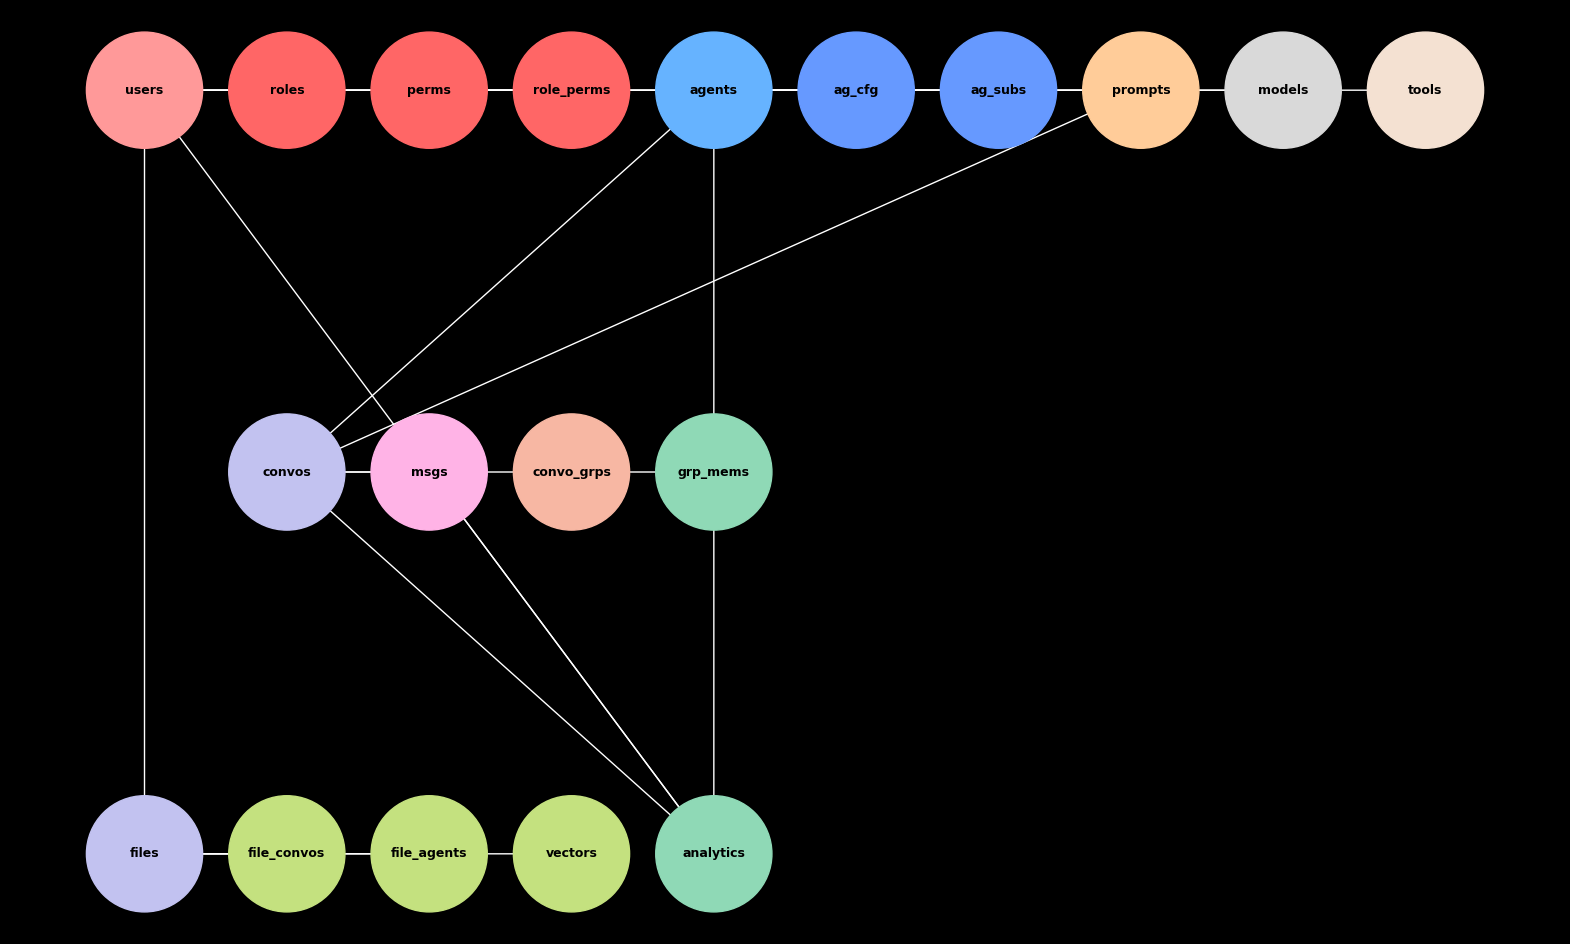
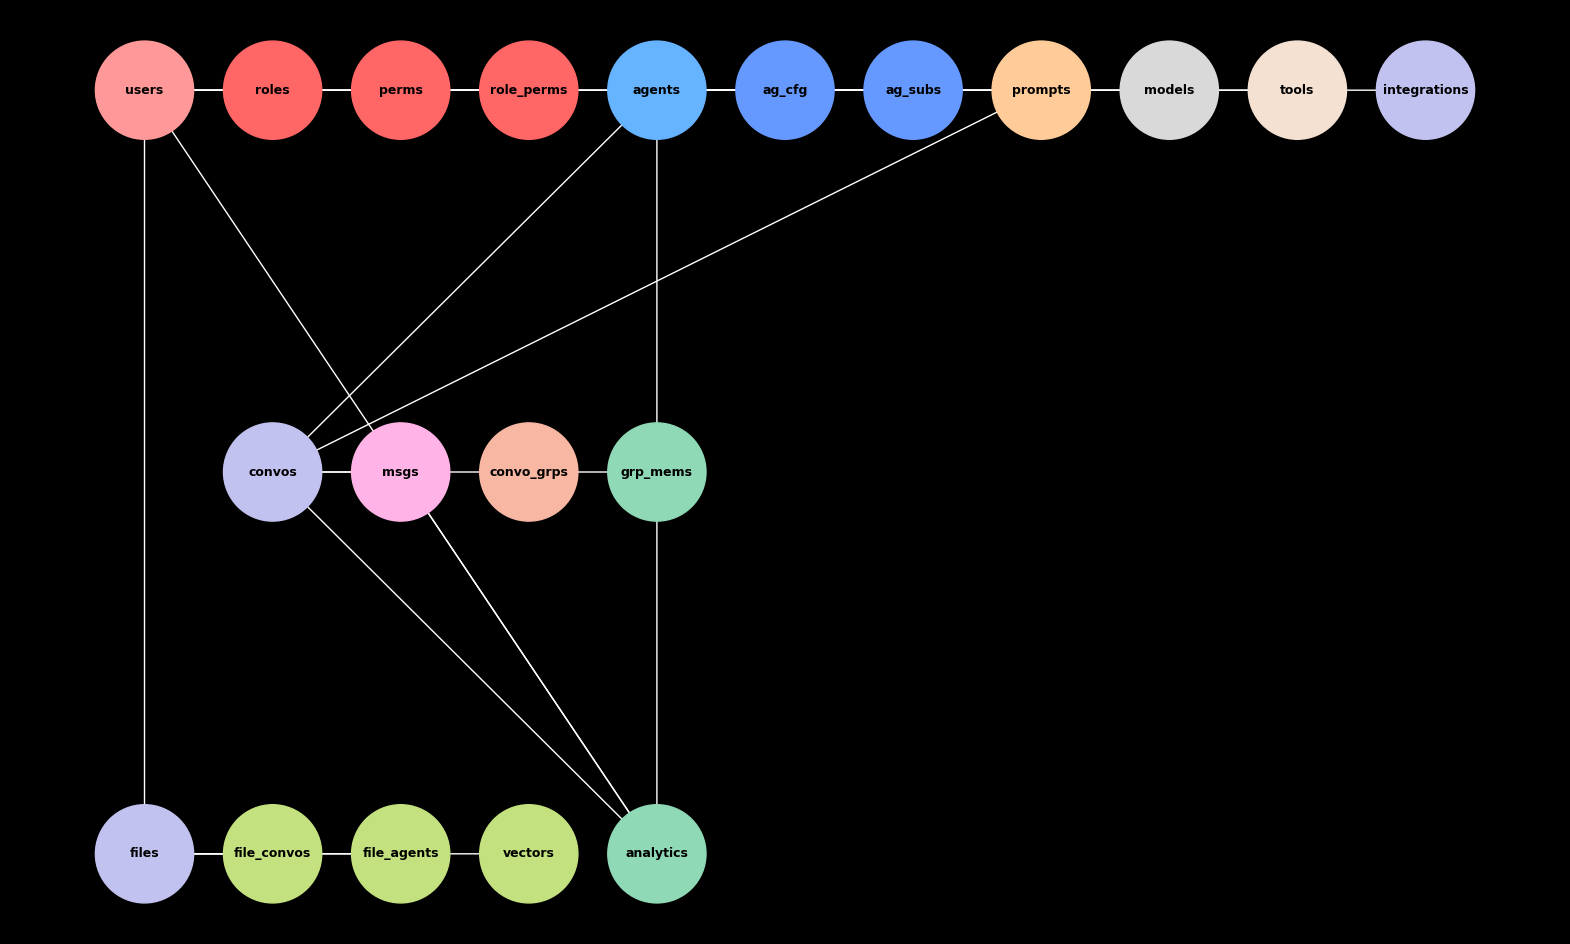
Updated architecture with integrations and tools split

diff --git a/scripts/architecture-endpoints.py b/scripts/architecture-endpoints.py
@@ -10,7 +10,7 @@ def calculate_positions(num_nodes, x_min, x_max, y_pos):
     return positions
 
 # List of node names
-node_names = ["User Mang", "Agent Mang", "Conversation Mang", "File Mang", "RAG Pipeline", "Integrations", "Analytics"]
+node_names = ["User Mang", "Agent Mang", "Conversation Mang", "File Mang", "RAG Pipeline", "Integrations", "Tools", "Analytics"]
 
 # Define colors for different entity groupings
 colors = {
@@ -20,54 +20,52 @@ colors = {
     "File Mang": "#6699ff",
     "RAG Pipeline": "#d9d9d9",
     "Integrations": "#8fd9b6",
+    "Tools": "#ffb3e6",
     "Analytics": "#c2c2f0",
 }
 
-# Define endpoints for each grou[
+# Define endpoints for each group
 endpoints = {
     "User Mang": [
-        "CreateUser", "GetUser", "Login", "Logout", "RefreshToken",
-        "ReqPassReset", "ResetPass", "CreateRole", "GetRole",
-        "CreatePerm", "GetPerm", "RolePerms",
-        "UserRoles", "RemoveUserRole"
+        "CreateUser", "GetUserDetails", "UpdateUser", "DeleteUser", "UserLogin",
+        "UserLogout", "RefreshToken", "PasswordResetReq", "PasswordReset", "CreateRole",
+        "GetRoleDetails", "UpdateRole", "DeleteRole", "CreatePermission", "GetPermissionDetails",
+        "UpdatePermission", "DeletePermission", "AssignPermission", "RemovePermission", "AssignRole",
+        "RemoveRole"
     ],
     "Agent Mang": [
-        "CreateAgent", "GetAgent", "AgentConfig",
-        "AgentModels", "GetModel",
-        "AgentTools", "GetTool",
-        "AgentPrompts", "GetPrompt",
-        "AgentSubs", "GetSub",
-        "AgentPerms", "GetPerm",
-        "AgentFiles", "GetFile"
+        "CreateAgent", "GetAgentDetails", "UpdateAgent", "DeleteAgent", "UpdateAgentConfig",
+        "AddAgentModel", "RemoveAgentModel", "AddAgentTool", "RemoveAgentTool", "AddAgentPrompt",
+        "RemoveAgentPrompt", "SubscribeAgent", "UnsubscribeAgent", "AssignAgentPermission", "RemoveAgentPermission",
+        "LinkAgentFile", "UnlinkAgentFile"
     ],
     "Conversation Mang": [
-        "CreateConv", "GetConv", "ConvMsgs",
-        "GetMsg", "ConvHist",
-        "ConvContext", "ConvGroup",
-        "CreateGroup", "GetGroup"
+        "CreateConversation", "GetConvDetails", "UpdateConvDetails", "DeleteConversation", "SendMessage",
+        "GetMessageDetails", "UpdateMessage", "DeleteMessage", "GetConvHistory", "GetConvContext",
+        "UpdateConvContext", "AddConvToGroup", "RemoveConvFromGroup", "CreateConvGroup", "GetConvGroupDetails",
+        "UpdateConvGroup", "DeleteConvGroup"
     ],
     "File Mang": [
-        "UploadFile", "GetFile", "FileMetadata"
+        "UploadFile", "GetFileDetails", "DeleteFile", "UpdateFileMetadata"
     ],
     "RAG Pipeline": [
-        "IngestFile", "FileVector",
-        "UpdateVector", "FileEmbed",
-        "UpdateEmbed", "SearchFiles"
+        "IngestFileContent", "GetFileVector", "UpdateFileVector", "GetFileEmbedding", "UpdateFileEmbedding", "SearchFilesWithRAG"
     ],
     "Integrations": [
-        "RegisterTool", "GetTool", "AgentTools",
-        "GetAgentTool", "ExecTool"
+        "RegisterIntegration", "GetIntegrationDetails", "UpdateIntegration", "DeleteIntegration", "ListIntegrations"
+    ],
+    "Tools": [
+        "RegisterTool", "GetToolDetails", "UpdateTool", "DeleteTool", "ListTools",
+        "AddToolToAgent", "RemoveToolFromAgent", "ExecuteTool"
     ],
     "Analytics": [
-        "CaptureEvent", "GetEvent", "EventSummary",
-        "AgentAnalytics", "UserAnalytics",
-        "ConvAnalytics", "EventTypes",
-        "GetEventType"
+        "CaptureAnalyticsEvent", "GetAnalyticsEvent", "GetAnalyticsSummary", "GetAgentAnalytics", "GetUserAnalytics",
+        "GetConversationAnalytics", "GetEventTypes", "GetEventTypeDetails"
     ],
 }
 
 # Create a figure and axis
-fig, ax = plt.subplots(figsize=(20, 8))
+fig, ax = plt.subplots(figsize=(20, 12))
 fig.patch.set_facecolor('black')
 ax.set_facecolor('black')
 
@@ -76,13 +74,13 @@ ax.axis('off')
 
 # Set limits to add padding
 ax.set_xlim(-22.5, 22.5)
-ax.set_ylim(-6.5, 6.5)
+ax.set_ylim(-7.5, 7.5)
 
 # Define the graph
 G = nx.DiGraph()
 
 # Calculate positions for the nodes
-positions = calculate_positions(len(node_names), -19, 19, 4)
+positions = calculate_positions(len(node_names), -19, 19, 6)
 
 # Assign correct node names to positions
 positions = {node_names[i]: pos for i, pos in enumerate(positions.values())}
@@ -93,15 +91,13 @@ for node, pos in positions.items():
 
 # Draw nodes
 pos = nx.get_node_attributes(G, 'pos')
-nx.draw_networkx_nodes(G, pos, node_size=10000, node_color=[colors[node.split('_')[0]] if '_' in node else colors[node] for node in G.nodes()], ax=ax)
+nx.draw_networkx_nodes(G, pos, node_size=10000, node_color=[colors[node] for node in G.nodes()], ax=ax)
 
 # Draw labels within the circles
 for node, (x, y) in pos.items():
-    label = node.split('_')[0] if '_' in node else node
-    ax.text(x, y, label, color='black', ha='center', va='center', fontsize=8, fontweight='bold')
+    ax.text(x, y, node, color='black', ha='center', va='center', fontsize=8, fontweight='bold')
 
 # Draw group nodes (rectangles) underneath each main node
-rect_height = 1.0
 rect_y_offset = 2.9
 line_offset = 2.1
 for node, (x, y) in pos.items():
@@ -126,3 +122,4 @@ for node, (x, y) in pos.items():
 plt.savefig('./static/img/docs/architecture_endpoints_diagram.png', bbox_inches='tight', facecolor=fig.get_facecolor())
 
 plt.show()
+

diff --git a/scripts/architecture-schema.py b/scripts/architecture-schema.py
@@ -22,6 +22,7 @@ colors = {
     "prompts": "#ffcc99",
     "models": "#d9d9d9",
     "tools": "#f4e1d2",
+    "integrations": "#c2c2f0",
     "convos": "#c2c2f0",
     "msgs": "#ffb3e6",
     "convo_grps": "#f7b7a3",
@@ -45,6 +46,7 @@ positions = {
     "prompts": (14, 2),
     "models": (16, 2),
     "tools": (18, 2),
+    "integrations": (20, 2),
     "convos": (2, 1),
     "msgs": (4, 1),
     "convo_grps": (6, 1),
@@ -72,6 +74,7 @@ relationships = [
     ("prompts", "convos"),
     ("models", "agents"),
     ("tools", "agents"),
+    ("integrations", "agents"),
     ("convos", "msgs"),
     ("agents", "convos"),
     ("convos", "convo_grps"),
@@ -91,7 +94,7 @@ for source, target in relationships:
 
 # Draw nodes
 pos = nx.get_node_attributes(G, 'pos')
-nx.draw_networkx_nodes(G, pos, node_size=7000, node_color=[colors[node] for node in G.nodes()], ax=ax)
+nx.draw_networkx_nodes(G, pos, node_size=5000, node_color=[colors[node] for node in G.nodes()], ax=ax)
 
 # Draw labels within the circles
 for node, (x, y) in pos.items():

diff --git a/scripts/architecture-core-components.py b/scripts/architecture-core-components.py
@@ -18,6 +18,7 @@ colors = {
     "File Mang": "#d9d9d9",
     "RAG Pipeline": "#8fd9b6",
     "Integrations": "#c2c2f0",
+    "Tools": "#ffb3e6",
     "Analytics": "#ffcc99",
 }
 
@@ -28,9 +29,10 @@ positions = {
     "Agent Mang": (14, 8),
     "Conversation Mang": (8, 6),
     "RAG Pipeline": (10, 4),
-    "Integrations": (12, 2),
+    "Integrations": (8, 4),
+    "Tools": (12, 4),
     "File Mang": (12, 6),
-    "Analytics": (8, 2),
+    "Analytics": (10, 2),
 }
 
 for node, pos in positions.items():
@@ -44,6 +46,7 @@ relationships = [
     ("Agent OS", "File Mang"),
     ("Agent OS", "RAG Pipeline"),
     ("Agent OS", "Integrations"),
+    ("Agent OS", "Tools"),
     ("Agent OS", "Analytics"),
 ]
 
